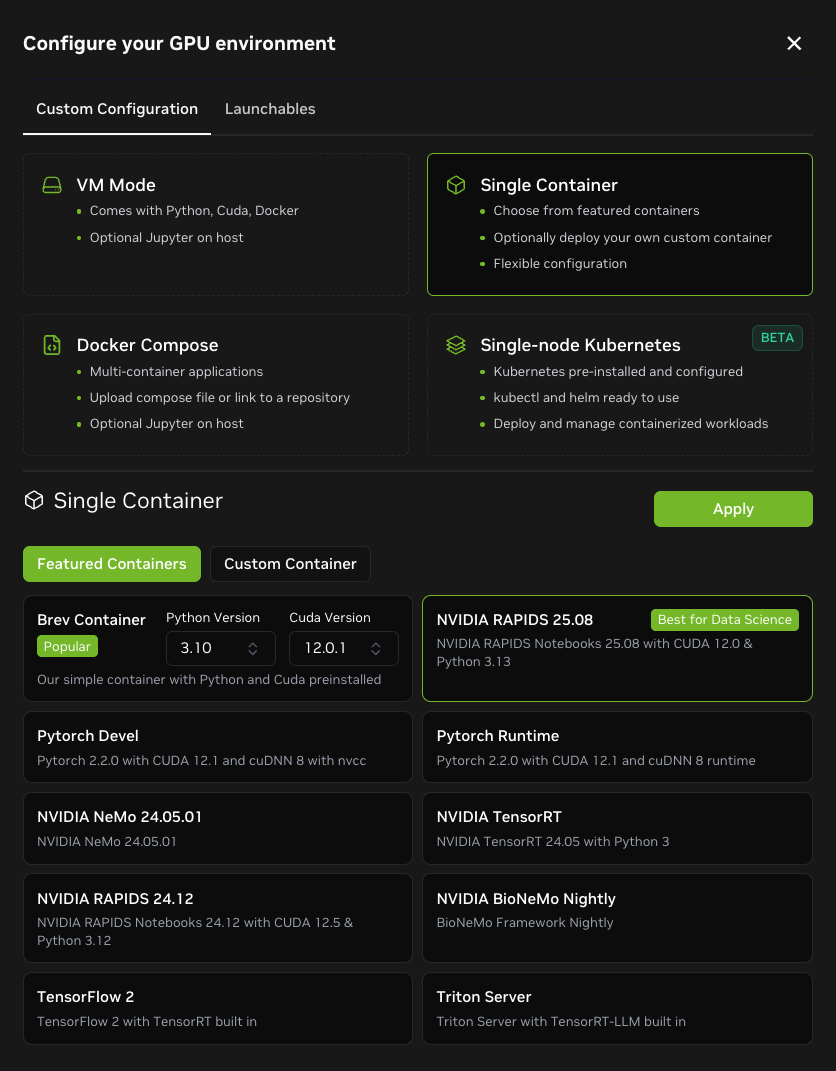
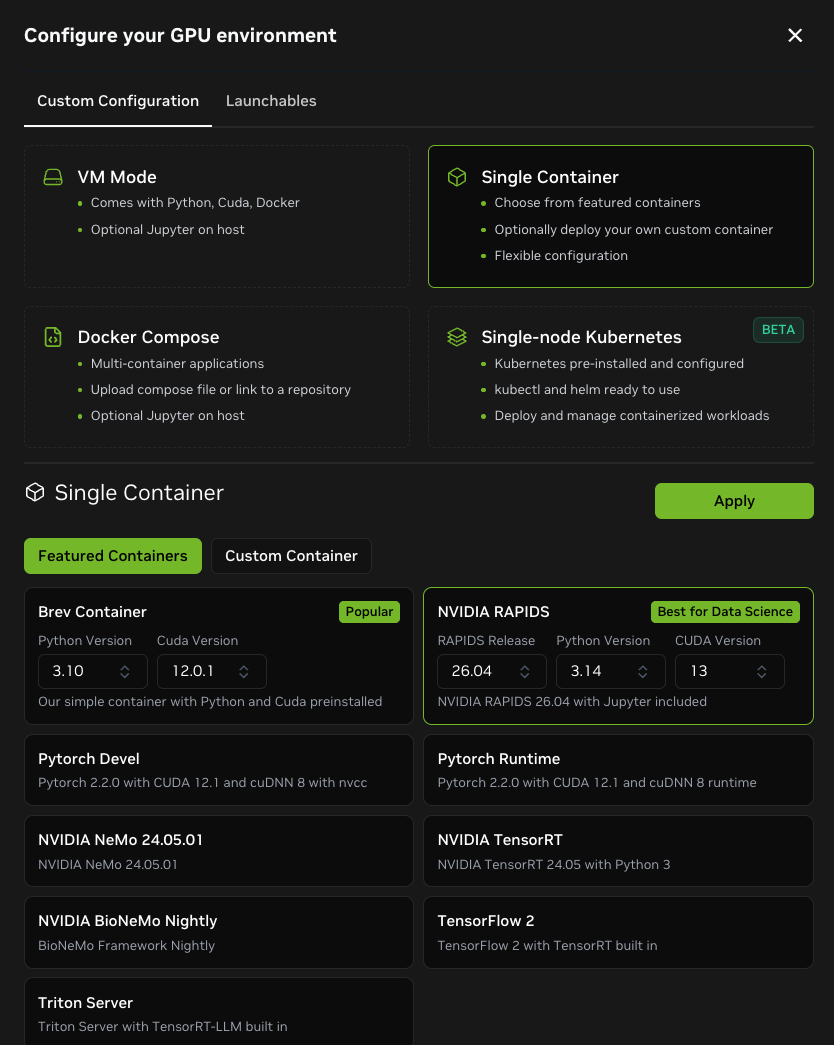
Update brev rapids instructions (#693)

diff --git a/source/cloud/nvidia/brev.md b/source/cloud/nvidia/brev.md
@@ -31,7 +31,8 @@ New users commonly choose `L4` GPUs for trying things out.
 
 ![Screenshot of the "Editing container or runtime" UI](/_static/images/platforms/brev/brev-edit-software-config.png)
 
-4. Select "Single Container", attach the "NVIDIA RAPIDS" Container and choose "Apply"..
+4. Select "Single Container", choose the RAPIDS release, python and CUDA versions, under the "NVIDIA RAPIDS" Container
+   selector and hit "Apply".
 
 ![Screenshot showing "Single Container" highlighted](/_static/images/platforms/brev/brev-single-container.png)
 
